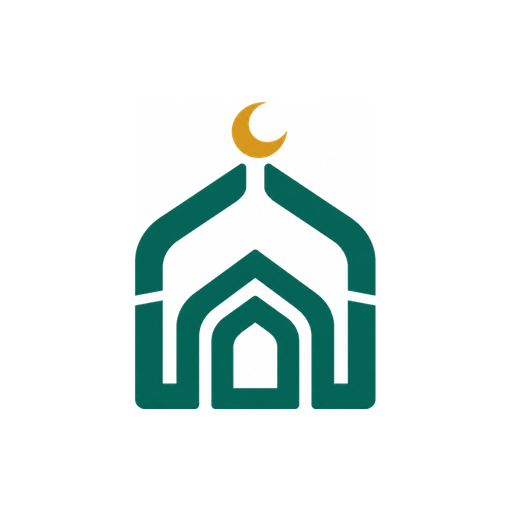
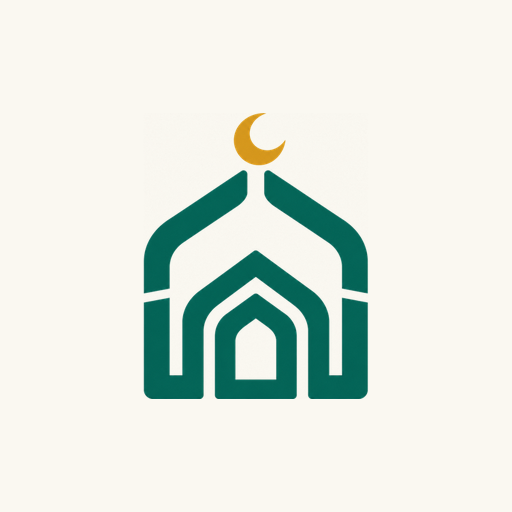
Add files via upload

diff --git a/profil-ui.js b/profil-ui.js
@@ -19,7 +19,7 @@ import { READING_SIZES, readingPrefs, saveReadingPrefs, lastRead } from './quran
 import { listSurahs } from './quran-service.js';
 import { legalView } from './page-ui.js';
 
-export const APP_VERSION = 'v146';
+export const APP_VERSION = 'v147';
 // Semua data yang disimpan di perangkat (tanpa sesi masuk). Dihapus lewat "Hapus data di perangkat ini".
 const DEVICE_KEYS = ['baituna.dzikir.v1', 'baituna.tasbih.v1', 'baituna.sound.v1', 'baituna.loc.v1', 'baituna.doa.fav.v1', 'baituna.sunnah.v1', 'baituna.belajar.v1', 'baituna.asma.v1', 'baituna.zakat.v1', 'baituna.tracker.v1', 'baituna.quranpref.v1', 'baituna.qari.v1', 'baituna.quranlast.v1', 'baituna.quranpage.v1', 'baituna.mushaftheme.v1', 'baituna.mushafawake.v1', 'baituna.mushafswipe.v1', 'baituna.quranmode.v1', 'baituna.notif.v1', 'baituna.notifseen.v1', 'baituna.ramadan.v1', 'baituna.ramadancache.v1', 'baituna.adzanlib.v1', 'baituna.push.v1', 'baituna.qa.v1', 'baituna.qa.vote.v1', 'baituna.books.v1', 'baituna.brand.v1'];
 const SIZE_LABEL = ['Kecil', 'Sedang', 'Besar', 'Lebih besar', 'Terbesar'];

diff --git a/service-worker.js b/service-worker.js
@@ -1,7 +1,7 @@
 // BAITUNA - service-worker.js
 // Cache aset statis agar aplikasi cepat dan bisa dibuka offline (hanya tampilan dasar).
 // Data Supabase TIDAK pernah disimpan di cache.
-const CACHE = 'baituna-static-v120';
+const CACHE = 'baituna-static-v121';
 const ASSETS = [
   './', 'index.html', 'style.css', 'components.css', 'responsive.css',
   'config.js', 'supabase.js', 'auth.js', 'router.js', 'permissions.js', 'ui.js',

diff --git a/README.md b/README.md
@@ -566,3 +566,6 @@ Saat halaman mushaf digeser dari tengah halaman, posisi gulir kini dipertahankan
 
 ## Tambahan v146
 - Layar pembuka bawaan Android: ikon "any" (192 dan 512) dibuat transparan sehingga logo menempel di latar krem; ikon maskable (peluncur) tetap berlatar putih. Latar manifest kembali krem.
+
+## Tambahan v147
+- Ikon maskable (yang dipakai Android untuk layar pembuka dan peluncur) kini berlatar krem sama dengan latar layar pembuka, jadi kotak putih tidak terlihat lagi.
